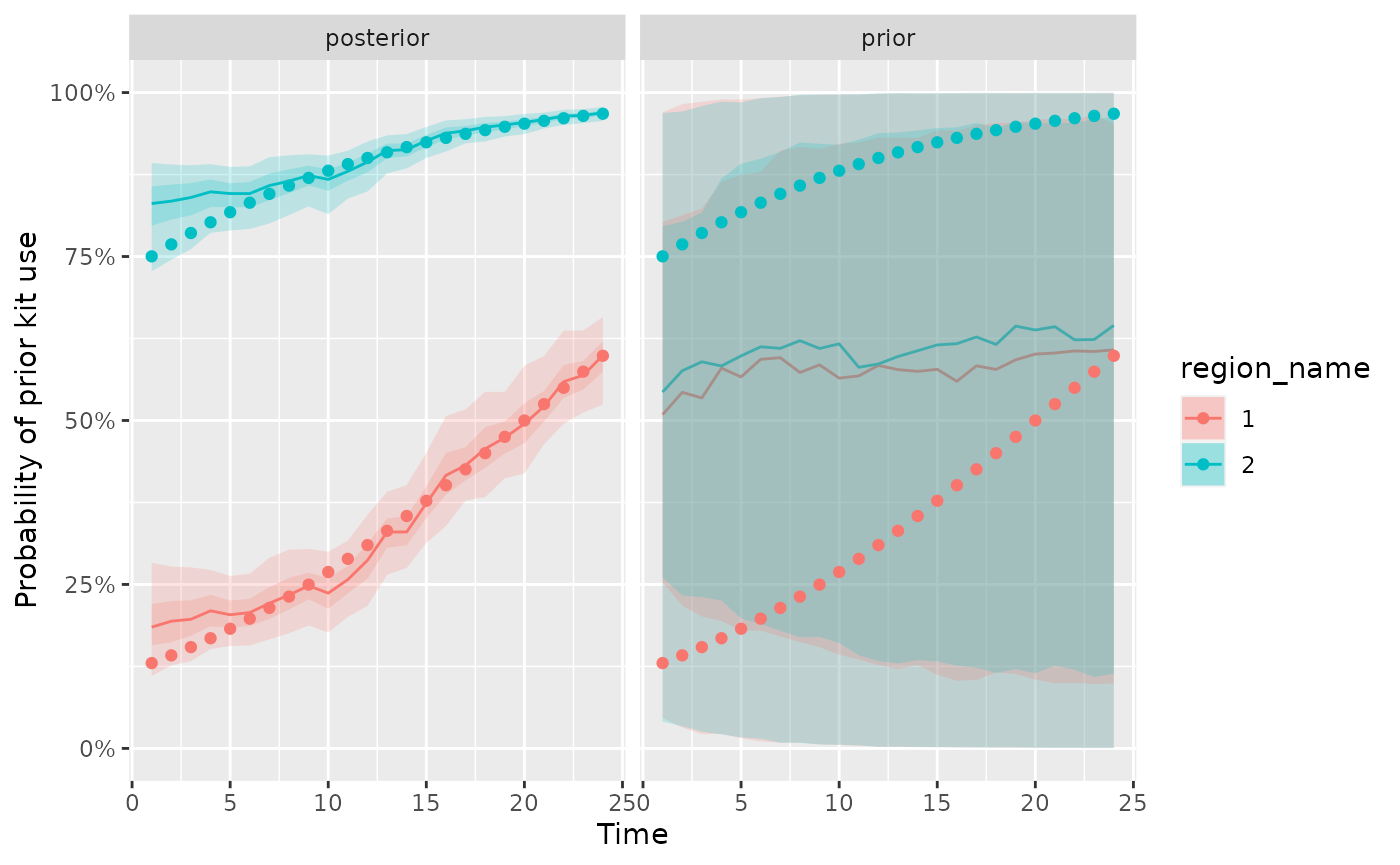
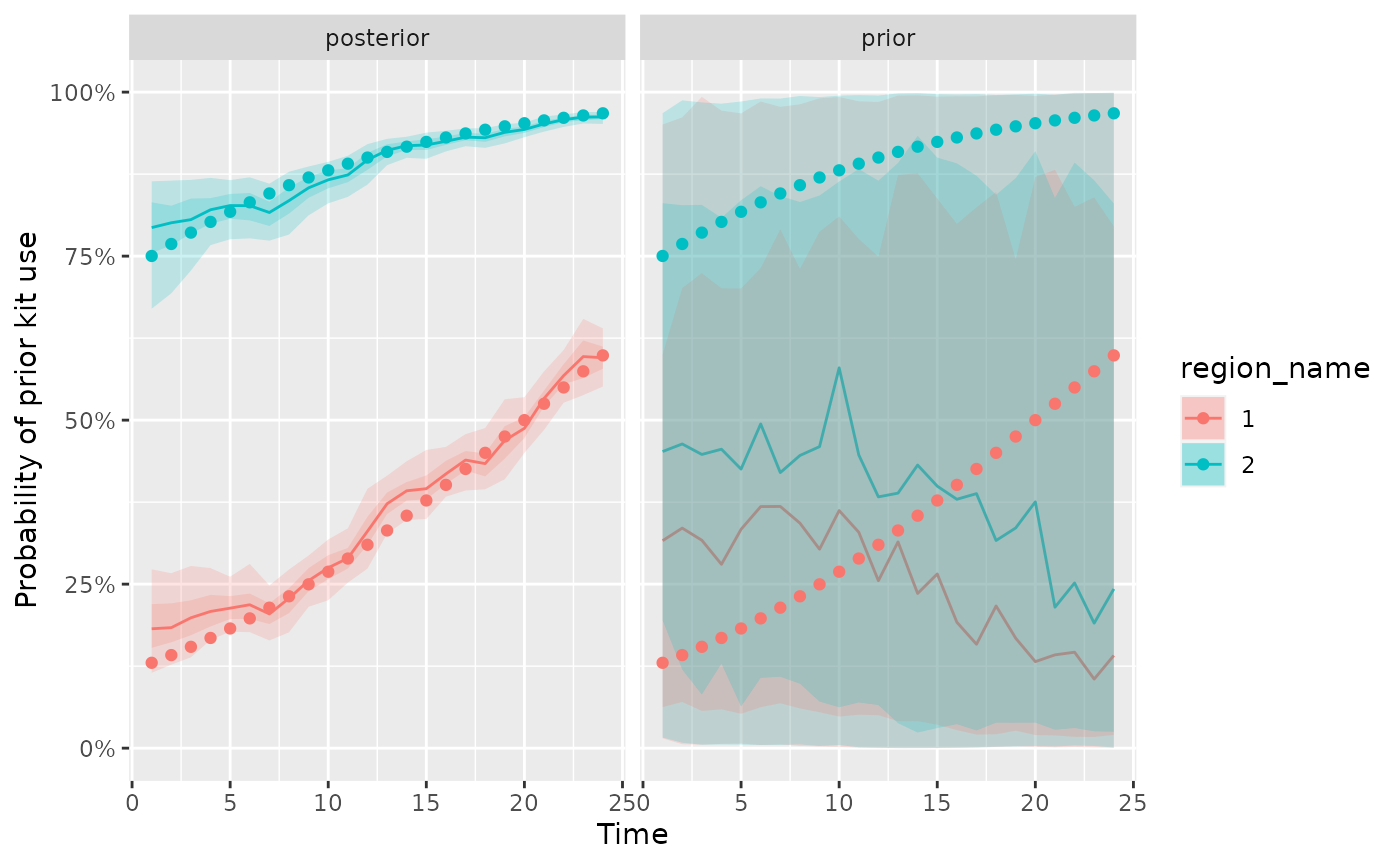
Deploying to gh-pages from @ sempwn/bennu@37bef14d76d6ded74b3891c9ccc3522ef571a1d9 🚀

diff --git a/articles/Introduction.html b/articles/Introduction.html
@@ -114,23 +114,22 @@
 <span><span class="kw"><a href="https://rdrr.io/r/base/library.html" class="external-link">library</a></span><span class="op">(</span><span class="va"><a href="https://ggplot2.tidyverse.org" class="external-link">ggplot2</a></span><span class="op">)</span></span>
 <span></span>
 <span><span class="fu"><a href="https://mc-stan.org/rstan/reference/rstan_options.html" class="external-link">rstan_options</a></span><span class="op">(</span>auto_write <span class="op">=</span> <span class="cn">TRUE</span><span class="op">)</span></span>
-<span><span class="fu"><a href="https://rdrr.io/r/base/options.html" class="external-link">options</a></span><span class="op">(</span>mc.cores <span class="op">=</span> <span class="fu">parallel</span><span class="fu">::</span><span class="fu"><a href="https://rdrr.io/r/parallel/detectCores.html" class="external-link">detectCores</a></span><span class="op">(</span>logical <span class="op">=</span> <span class="cn">FALSE</span><span class="op">)</span><span class="op">)</span></span>
+<span><span class="fu"><a href="https://rdrr.io/r/base/options.html" class="external-link">options</a></span><span class="op">(</span>mc.cores <span class="op">=</span> <span class="fl">2</span><span class="op">)</span></span>
 <span></span>
 <span><span class="co">## basic example code</span></span>
 <span><span class="va">d</span> <span class="op">&lt;-</span> <span class="fu"><a href="../reference/generate_model_data.html">generate_model_data</a></span><span class="op">(</span><span class="op">)</span></span>
 <span><span class="co"># note iter should be at least 2000 to generate a reasonable posterior sample</span></span>
-<span><span class="va">fit</span> <span class="op">&lt;-</span> <span class="fu"><a href="../reference/est_naloxone.html">est_naloxone</a></span><span class="op">(</span><span class="va">d</span>,iter<span class="op">=</span><span class="fl">1000</span><span class="op">)</span></span>
+<span><span class="va">fit</span> <span class="op">&lt;-</span> <span class="fu"><a href="../reference/est_naloxone.html">est_naloxone</a></span><span class="op">(</span><span class="va">d</span>,iter<span class="op">=</span><span class="fl">100</span><span class="op">)</span></span>
 <span><span class="co">#&gt; Warning: Specifying the `id_cols` argument by position was deprecated in tidyr 1.3.0.</span></span>
 <span><span class="co">#&gt; <span style="color: #00BBBB;">ℹ</span> Please explicitly name `id_cols`, like `id_cols = regions`.</span></span>
 <span><span class="co">#&gt; <span style="color: #00BBBB;">ℹ</span> The deprecated feature was likely used in the <span style="color: #0000BB;">bennu</span> package.</span></span>
 <span><span class="co">#&gt;   Please report the issue at <span style="color: #0000BB; font-style: italic;">&lt;https://github.com/sempwn/bennu/issues&gt;</span>.</span></span>
-<span><span class="co">#&gt; Warning: There were 226 divergent transitions after warmup. See</span></span>
+<span><span class="co">#&gt; <span style="color: #555555;">This warning is displayed once every 8 hours.</span></span></span>
+<span><span class="co">#&gt; <span style="color: #555555;">Call `lifecycle::last_lifecycle_warnings()` to see where this warning was</span></span></span>
+<span><span class="co">#&gt; <span style="color: #555555;">generated.</span></span></span>
+<span><span class="co">#&gt; Warning: There were 14 divergent transitions after warmup. See</span></span>
 <span><span class="co">#&gt; https://mc-stan.org/misc/warnings.html#divergent-transitions-after-warmup</span></span>
 <span><span class="co">#&gt; to find out why this is a problem and how to eliminate them.</span></span>
-<span><span class="co">#&gt; Warning: There were 9 transitions after warmup that exceeded the maximum treedepth. Increase max_treedepth above 10. See</span></span>
-<span><span class="co">#&gt; https://mc-stan.org/misc/warnings.html#maximum-treedepth-exceeded</span></span>
-<span><span class="co">#&gt; Warning: There were 3 chains where the estimated Bayesian Fraction of Missing Information was low. See</span></span>
-<span><span class="co">#&gt; https://mc-stan.org/misc/warnings.html#bfmi-low</span></span>
 <span><span class="co">#&gt; Warning: Examine the pairs() plot to diagnose sampling problems</span></span>
 <span><span class="co">#&gt; Warning: The largest R-hat is NA, indicating chains have not mixed.</span></span>
 <span><span class="co">#&gt; Running the chains for more iterations may help. See</span></span>
@@ -147,7 +146,7 @@
 <p>Return median and 90th percentiles for posterior samples</p>
 <div class="sourceCode" id="cb2"><pre class="downlit sourceCode r">
 <code class="sourceCode R"><span><span class="kw"><a href="https://rdrr.io/r/base/library.html" class="external-link">library</a></span><span class="op">(</span><span class="va"><a href="https://mc-stan.org/posterior/" class="external-link">posterior</a></span><span class="op">)</span></span>
-<span><span class="co">#&gt; This is posterior version 1.3.1</span></span>
+<span><span class="co">#&gt; This is posterior version 1.4.1</span></span>
 <span><span class="co">#&gt; </span></span>
 <span><span class="co">#&gt; Attaching package: 'posterior'</span></span>
 <span><span class="co">#&gt; The following object is masked from 'package:bayesplot':</span></span>
@@ -159,31 +158,30 @@
 <span><span class="co">#&gt; The following objects are masked from 'package:stats':</span></span>
 <span><span class="co">#&gt; </span></span>
 <span><span class="co">#&gt;     mad, sd, var</span></span>
+<span><span class="co">#&gt; The following objects are masked from 'package:base':</span></span>
+<span><span class="co">#&gt; </span></span>
+<span><span class="co">#&gt;     %in%, match</span></span>
 <span></span>
 <span><span class="fu"><a href="https://mc-stan.org/posterior/reference/draws_summary.html" class="external-link">summarise_draws</a></span><span class="op">(</span><span class="va">fit</span>, <span class="fu"><a href="https://mc-stan.org/posterior/reference/draws_summary.html" class="external-link">default_summary_measures</a></span><span class="op">(</span><span class="op">)</span><span class="op">)</span></span>
 <span><span class="co">#&gt; <span style="color: #949494;"># A tibble: 462 × 7</span></span></span>
-<span><span class="co">#&gt;    variable  mean median    sd   mad    q5    q95</span></span>
-<span><span class="co">#&gt;    <span style="color: #949494; font-style: italic;">&lt;chr&gt;</span>    <span style="color: #949494; font-style: italic;">&lt;dbl&gt;</span>  <span style="color: #949494; font-style: italic;">&lt;dbl&gt;</span> <span style="color: #949494; font-style: italic;">&lt;dbl&gt;</span> <span style="color: #949494; font-style: italic;">&lt;dbl&gt;</span> <span style="color: #949494; font-style: italic;">&lt;dbl&gt;</span>  <span style="color: #949494; font-style: italic;">&lt;dbl&gt;</span></span></span>
-<span><span class="co">#&gt; <span style="color: #BCBCBC;"> 1</span> logp[1]  -<span style="color: #BB0000;">1.49</span>  -<span style="color: #BB0000;">1.48</span> 0.344 0.306 -<span style="color: #BB0000;">2.08</span> -<span style="color: #BB0000;">0.975</span></span></span>
-<span><span class="co">#&gt; <span style="color: #BCBCBC;"> 2</span> logp[2]  -<span style="color: #BB0000;">1.43</span>  -<span style="color: #BB0000;">1.42</span> 0.293 0.285 -<span style="color: #BB0000;">1.89</span> -<span style="color: #BB0000;">0.954</span></span></span>
-<span><span class="co">#&gt; <span style="color: #BCBCBC;"> 3</span> logp[3]  -<span style="color: #BB0000;">1.42</span>  -<span style="color: #BB0000;">1.42</span> 0.269 0.231 -<span style="color: #BB0000;">1.87</span> -<span style="color: #BB0000;">0.982</span></span></span>
-<span><span class="co">#&gt; <span style="color: #BCBCBC;"> 4</span> logp[4]  -<span style="color: #BB0000;">1.31</span>  -<span style="color: #BB0000;">1.31</span> 0.183 0.180 -<span style="color: #BB0000;">1.61</span> -<span style="color: #BB0000;">0.995</span></span></span>
-<span><span class="co">#&gt; <span style="color: #BCBCBC;"> 5</span> logp[5]  -<span style="color: #BB0000;">1.35</span>  -<span style="color: #BB0000;">1.35</span> 0.156 0.149 -<span style="color: #BB0000;">1.62</span> -<span style="color: #BB0000;">1.10</span> </span></span>
-<span><span class="co">#&gt; <span style="color: #BCBCBC;"> 6</span> logp[6]  -<span style="color: #BB0000;">1.38</span>  -<span style="color: #BB0000;">1.38</span> 0.150 0.150 -<span style="color: #BB0000;">1.63</span> -<span style="color: #BB0000;">1.14</span> </span></span>
-<span><span class="co">#&gt; <span style="color: #BCBCBC;"> 7</span> logp[7]  -<span style="color: #BB0000;">1.25</span>  -<span style="color: #BB0000;">1.25</span> 0.216 0.206 -<span style="color: #BB0000;">1.61</span> -<span style="color: #BB0000;">0.885</span></span></span>
-<span><span class="co">#&gt; <span style="color: #BCBCBC;"> 8</span> logp[8]  -<span style="color: #BB0000;">1.21</span>  -<span style="color: #BB0000;">1.20</span> 0.201 0.185 -<span style="color: #BB0000;">1.55</span> -<span style="color: #BB0000;">0.888</span></span></span>
-<span><span class="co">#&gt; <span style="color: #BCBCBC;"> 9</span> logp[9]  -<span style="color: #BB0000;">1.04</span>  -<span style="color: #BB0000;">1.04</span> 0.104 0.108 -<span style="color: #BB0000;">1.19</span> -<span style="color: #BB0000;">0.867</span></span></span>
-<span><span class="co">#&gt; <span style="color: #BCBCBC;">10</span> logp[10] -<span style="color: #BB0000;">1.18</span>  -<span style="color: #BB0000;">1.17</span> 0.211 0.204 -<span style="color: #BB0000;">1.53</span> -<span style="color: #BB0000;">0.832</span></span></span>
-<span><span class="co">#&gt; <span style="color: #949494;"># … with 452 more rows</span></span></span></code></pre></div>
+<span><span class="co">#&gt;    variable   mean median    sd   mad    q5    q95</span></span>
+<span><span class="co">#&gt;    <span style="color: #949494; font-style: italic;">&lt;chr&gt;</span>     <span style="color: #949494; font-style: italic;">&lt;num&gt;</span>  <span style="color: #949494; font-style: italic;">&lt;num&gt;</span> <span style="color: #949494; font-style: italic;">&lt;num&gt;</span> <span style="color: #949494; font-style: italic;">&lt;num&gt;</span> <span style="color: #949494; font-style: italic;">&lt;num&gt;</span>  <span style="color: #949494; font-style: italic;">&lt;num&gt;</span></span></span>
+<span><span class="co">#&gt; <span style="color: #BCBCBC;"> 1</span> logp[1]  -<span style="color: #BB0000;">1.50</span>  -<span style="color: #BB0000;">1.49</span>  0.316 0.303 -<span style="color: #BB0000;">2.05</span> -<span style="color: #BB0000;">1.01</span> </span></span>
+<span><span class="co">#&gt; <span style="color: #BCBCBC;"> 2</span> logp[2]  -<span style="color: #BB0000;">1.49</span>  -<span style="color: #BB0000;">1.50</span>  0.272 0.252 -<span style="color: #BB0000;">1.94</span> -<span style="color: #BB0000;">1.03</span> </span></span>
+<span><span class="co">#&gt; <span style="color: #BCBCBC;"> 3</span> logp[3]  -<span style="color: #BB0000;">1.41</span>  -<span style="color: #BB0000;">1.42</span>  0.262 0.243 -<span style="color: #BB0000;">1.88</span> -<span style="color: #BB0000;">0.947</span></span></span>
+<span><span class="co">#&gt; <span style="color: #BCBCBC;"> 4</span> logp[4]  -<span style="color: #BB0000;">1.33</span>  -<span style="color: #BB0000;">1.35</span>  0.201 0.206 -<span style="color: #BB0000;">1.63</span> -<span style="color: #BB0000;">1.00</span> </span></span>
+<span><span class="co">#&gt; <span style="color: #BCBCBC;"> 5</span> logp[5]  -<span style="color: #BB0000;">1.30</span>  -<span style="color: #BB0000;">1.31</span>  0.144 0.141 -<span style="color: #BB0000;">1.51</span> -<span style="color: #BB0000;">1.07</span> </span></span>
+<span><span class="co">#&gt; <span style="color: #BCBCBC;"> 6</span> logp[6]  -<span style="color: #BB0000;">1.27</span>  -<span style="color: #BB0000;">1.27</span>  0.172 0.150 -<span style="color: #BB0000;">1.56</span> -<span style="color: #BB0000;">1.01</span> </span></span>
+<span><span class="co">#&gt; <span style="color: #BCBCBC;"> 7</span> logp[7]  -<span style="color: #BB0000;">1.39</span>  -<span style="color: #BB0000;">1.37</span>  0.124 0.110 -<span style="color: #BB0000;">1.59</span> -<span style="color: #BB0000;">1.19</span> </span></span>
+<span><span class="co">#&gt; <span style="color: #BCBCBC;"> 8</span> logp[8]  -<span style="color: #BB0000;">1.24</span>  -<span style="color: #BB0000;">1.23</span>  0.175 0.183 -<span style="color: #BB0000;">1.53</span> -<span style="color: #BB0000;">0.991</span></span></span>
+<span><span class="co">#&gt; <span style="color: #BCBCBC;"> 9</span> logp[9]  -<span style="color: #BB0000;">1.05</span>  -<span style="color: #BB0000;">1.04</span>  0.106 0.105 -<span style="color: #BB0000;">1.24</span> -<span style="color: #BB0000;">0.885</span></span></span>
+<span><span class="co">#&gt; <span style="color: #BCBCBC;">10</span> logp[10] -<span style="color: #BB0000;">0.956</span> -<span style="color: #BB0000;">0.962</span> 0.111 0.100 -<span style="color: #BB0000;">1.16</span> -<span style="color: #BB0000;">0.780</span></span></span>
+<span><span class="co">#&gt; <span style="color: #949494;"># ℹ 452 more rows</span></span></span></code></pre></div>
 <p>We can compare two different model fits of the probability of prior
 kit use to simulated data using the <code>plot_kit_use</code>
 function</p>
 <div class="sourceCode" id="cb3"><pre class="downlit sourceCode r">
-<code class="sourceCode R"><span><span class="fu"><a href="../reference/plot_kit_use.html">plot_kit_use</a></span><span class="op">(</span>model <span class="op">=</span> <span class="va">fit</span>,data<span class="op">=</span><span class="va">d</span><span class="op">)</span></span>
-<span><span class="co">#&gt; Warning: `gather_()` was deprecated in tidyr 1.2.0.</span></span>
-<span><span class="co">#&gt; <span style="color: #00BBBB;">ℹ</span> Please use `gather()` instead.</span></span>
-<span><span class="co">#&gt; <span style="color: #00BBBB;">ℹ</span> The deprecated feature was likely used in the <span style="color: #0000BB;">tidybayes</span> package.</span></span>
-<span><span class="co">#&gt;   Please report the issue at <span style="color: #0000BB; font-style: italic;">&lt;https://github.com/mjskay/tidybayes/issues/new&gt;</span>.</span></span></code></pre></div>
+<code class="sourceCode R"><span><span class="fu"><a href="../reference/plot_kit_use.html">plot_kit_use</a></span><span class="op">(</span>model <span class="op">=</span> <span class="va">fit</span>,data<span class="op">=</span><span class="va">d</span><span class="op">)</span></span></code></pre></div>
 <p><img src="Introduction_files/figure-html/plot%20draws-1.png" width="700"></p>
 <p>We can compare the posterior predictive check to the prior predictive
 check by re-running the model without the likelihood by setting the
@@ -192,13 +190,13 @@ check by re-running the model without the likelihood by setting the
 <code class="sourceCode R"><span><span class="co"># note iter should be at least 2000 to generate a reasonable posterior sample</span></span>
 <span><span class="va">prior_fit</span> <span class="op">&lt;-</span> <span class="fu"><a href="../reference/est_naloxone.html">est_naloxone</a></span><span class="op">(</span><span class="va">d</span>,</span>
 <span>                          run_estimation <span class="op">=</span> <span class="cn">FALSE</span>,</span>
-<span>                          iter<span class="op">=</span><span class="fl">1000</span><span class="op">)</span></span>
-<span><span class="co">#&gt; Warning: There were 31 divergent transitions after warmup. See</span></span>
+<span>                          iter<span class="op">=</span><span class="fl">100</span><span class="op">)</span></span>
+<span><span class="co">#&gt; Warning: There were 10 divergent transitions after warmup. See</span></span>
 <span><span class="co">#&gt; https://mc-stan.org/misc/warnings.html#divergent-transitions-after-warmup</span></span>
 <span><span class="co">#&gt; to find out why this is a problem and how to eliminate them.</span></span>
-<span><span class="co">#&gt; Warning: There were 230 transitions after warmup that exceeded the maximum treedepth. Increase max_treedepth above 10. See</span></span>
+<span><span class="co">#&gt; Warning: There were 6 transitions after warmup that exceeded the maximum treedepth. Increase max_treedepth above 10. See</span></span>
 <span><span class="co">#&gt; https://mc-stan.org/misc/warnings.html#maximum-treedepth-exceeded</span></span>
-<span><span class="co">#&gt; Warning: There were 4 chains where the estimated Bayesian Fraction of Missing Information was low. See</span></span>
+<span><span class="co">#&gt; Warning: There were 2 chains where the estimated Bayesian Fraction of Missing Information was low. See</span></span>
 <span><span class="co">#&gt; https://mc-stan.org/misc/warnings.html#bfmi-low</span></span>
 <span><span class="co">#&gt; Warning: Examine the pairs() plot to diagnose sampling problems</span></span>
 <span><span class="co">#&gt; Warning: The largest R-hat is NA, indicating chains have not mixed.</span></span>
@@ -239,13 +237,13 @@ probability of naloxone use in time.</p>
 <span><span class="co"># note use `rw_type` to specify order of random walk</span></span>
 <span><span class="va">rw2_fit</span> <span class="op">&lt;-</span> <span class="fu"><a href="../reference/est_naloxone.html">est_naloxone</a></span><span class="op">(</span><span class="va">d</span>,</span>
 <span>                    rw_type <span class="op">=</span> <span class="fl">2</span>,</span>
-<span>                    iter<span class="op">=</span><span class="fl">1000</span><span class="op">)</span></span>
-<span><span class="co">#&gt; Warning: There were 45 divergent transitions after warmup. See</span></span>
+<span>                    iter<span class="op">=</span><span class="fl">100</span><span class="op">)</span></span>
+<span><span class="co">#&gt; Warning: There were 61 divergent transitions after warmup. See</span></span>
 <span><span class="co">#&gt; https://mc-stan.org/misc/warnings.html#divergent-transitions-after-warmup</span></span>
 <span><span class="co">#&gt; to find out why this is a problem and how to eliminate them.</span></span>
-<span><span class="co">#&gt; Warning: There were 1269 transitions after warmup that exceeded the maximum treedepth. Increase max_treedepth above 10. See</span></span>
+<span><span class="co">#&gt; Warning: There were 3 transitions after warmup that exceeded the maximum treedepth. Increase max_treedepth above 10. See</span></span>
 <span><span class="co">#&gt; https://mc-stan.org/misc/warnings.html#maximum-treedepth-exceeded</span></span>
-<span><span class="co">#&gt; Warning: There were 4 chains where the estimated Bayesian Fraction of Missing Information was low. See</span></span>
+<span><span class="co">#&gt; Warning: There were 1 chains where the estimated Bayesian Fraction of Missing Information was low. See</span></span>
 <span><span class="co">#&gt; https://mc-stan.org/misc/warnings.html#bfmi-low</span></span>
 <span><span class="co">#&gt; Warning: Examine the pairs() plot to diagnose sampling problems</span></span>
 <span><span class="co">#&gt; Warning: The largest R-hat is NA, indicating chains have not mixed.</span></span>
@@ -265,18 +263,18 @@ probability of naloxone use in time.</p>
 <code class="sourceCode R"><span><span class="fu"><a href="https://mc-stan.org/posterior/reference/draws_summary.html" class="external-link">summarise_draws</a></span><span class="op">(</span><span class="va">rw2_fit</span>, <span class="fu"><a href="https://mc-stan.org/posterior/reference/draws_summary.html" class="external-link">default_convergence_measures</a></span><span class="op">(</span><span class="op">)</span><span class="op">)</span></span>
 <span><span class="co">#&gt; <span style="color: #949494;"># A tibble: 462 × 4</span></span></span>
 <span><span class="co">#&gt;    variable  rhat ess_bulk ess_tail</span></span>
-<span><span class="co">#&gt;    <span style="color: #949494; font-style: italic;">&lt;chr&gt;</span>    <span style="color: #949494; font-style: italic;">&lt;dbl&gt;</span>    <span style="color: #949494; font-style: italic;">&lt;dbl&gt;</span>    <span style="color: #949494; font-style: italic;">&lt;dbl&gt;</span></span></span>
-<span><span class="co">#&gt; <span style="color: #BCBCBC;"> 1</span> logp[1]   1.02     224.     429.</span></span>
-<span><span class="co">#&gt; <span style="color: #BCBCBC;"> 2</span> logp[2]   1.02     214.     568.</span></span>
-<span><span class="co">#&gt; <span style="color: #BCBCBC;"> 3</span> logp[3]   1.02     250.     547.</span></span>
-<span><span class="co">#&gt; <span style="color: #BCBCBC;"> 4</span> logp[4]   1.02     237.     537.</span></span>
-<span><span class="co">#&gt; <span style="color: #BCBCBC;"> 5</span> logp[5]   1.02     314.     604.</span></span>
-<span><span class="co">#&gt; <span style="color: #BCBCBC;"> 6</span> logp[6]   1.01     401.     661.</span></span>
-<span><span class="co">#&gt; <span style="color: #BCBCBC;"> 7</span> logp[7]   1.03     579.     744.</span></span>
-<span><span class="co">#&gt; <span style="color: #BCBCBC;"> 8</span> logp[8]   1.02     729.     709.</span></span>
-<span><span class="co">#&gt; <span style="color: #BCBCBC;"> 9</span> logp[9]   1.02     488.     770.</span></span>
-<span><span class="co">#&gt; <span style="color: #BCBCBC;">10</span> logp[10]  1.03     750.     710.</span></span>
-<span><span class="co">#&gt; <span style="color: #949494;"># … with 452 more rows</span></span></span></code></pre></div>
+<span><span class="co">#&gt;    <span style="color: #949494; font-style: italic;">&lt;chr&gt;</span>    <span style="color: #949494; font-style: italic;">&lt;num&gt;</span>    <span style="color: #949494; font-style: italic;">&lt;num&gt;</span>    <span style="color: #949494; font-style: italic;">&lt;num&gt;</span></span></span>
+<span><span class="co">#&gt; <span style="color: #BCBCBC;"> 1</span> logp[1]   1.42    10.4      37.6</span></span>
+<span><span class="co">#&gt; <span style="color: #BCBCBC;"> 2</span> logp[2]   1.65     8.23     21.0</span></span>
+<span><span class="co">#&gt; <span style="color: #BCBCBC;"> 3</span> logp[3]   1.76     7.55     20.4</span></span>
+<span><span class="co">#&gt; <span style="color: #BCBCBC;"> 4</span> logp[4]   1.54     8.73     32.8</span></span>
+<span><span class="co">#&gt; <span style="color: #BCBCBC;"> 5</span> logp[5]   1.43     9.97     83.7</span></span>
+<span><span class="co">#&gt; <span style="color: #BCBCBC;"> 6</span> logp[6]   1.37    10.9      65.0</span></span>
+<span><span class="co">#&gt; <span style="color: #BCBCBC;"> 7</span> logp[7]   1.23    16.6      83.8</span></span>
+<span><span class="co">#&gt; <span style="color: #BCBCBC;"> 8</span> logp[8]   1.16    22.5      75.7</span></span>
+<span><span class="co">#&gt; <span style="color: #BCBCBC;"> 9</span> logp[9]   1.28    13.2     131. </span></span>
+<span><span class="co">#&gt; <span style="color: #BCBCBC;">10</span> logp[10]  1.38    10.9      20.4</span></span>
+<span><span class="co">#&gt; <span style="color: #949494;"># ℹ 452 more rows</span></span></span></code></pre></div>
 <p>We can compare two different model fits of the probability of prior
 kit use to simulated data using the <code>plot_kit_use</code>
 function</p>
@@ -303,13 +301,11 @@ months</p>
 <div class="sourceCode" id="cb10"><pre class="downlit sourceCode r">
 <code class="sourceCode R"><span><span class="va">missing_fit</span> <span class="op">&lt;-</span> <span class="fu"><a href="../reference/est_naloxone.html">est_naloxone</a></span><span class="op">(</span><span class="va">d_missing</span>,</span>
 <span>                    rw_type <span class="op">=</span> <span class="fl">2</span>,</span>
-<span>                    iter<span class="op">=</span><span class="fl">1000</span><span class="op">)</span></span>
-<span><span class="co">#&gt; Warning: There were 106 divergent transitions after warmup. See</span></span>
+<span>                    iter<span class="op">=</span><span class="fl">100</span><span class="op">)</span></span>
+<span><span class="co">#&gt; Warning: There were 13 divergent transitions after warmup. See</span></span>
 <span><span class="co">#&gt; https://mc-stan.org/misc/warnings.html#divergent-transitions-after-warmup</span></span>
 <span><span class="co">#&gt; to find out why this is a problem and how to eliminate them.</span></span>
-<span><span class="co">#&gt; Warning: There were 937 transitions after warmup that exceeded the maximum treedepth. Increase max_treedepth above 10. See</span></span>
-<span><span class="co">#&gt; https://mc-stan.org/misc/warnings.html#maximum-treedepth-exceeded</span></span>
-<span><span class="co">#&gt; Warning: There were 4 chains where the estimated Bayesian Fraction of Missing Information was low. See</span></span>
+<span><span class="co">#&gt; Warning: There were 2 chains where the estimated Bayesian Fraction of Missing Information was low. See</span></span>
 <span><span class="co">#&gt; https://mc-stan.org/misc/warnings.html#bfmi-low</span></span>
 <span><span class="co">#&gt; Warning: Examine the pairs() plot to diagnose sampling problems</span></span>
 <span><span class="co">#&gt; Warning: The largest R-hat is NA, indicating chains have not mixed.</span></span>

diff --git a/index.html b/index.html
@@ -5,7 +5,7 @@
 <meta charset="utf-8">
 <meta http-equiv="X-UA-Compatible" content="IE=edge">
 <meta name="viewport" content="width=device-width, initial-scale=1.0">
-<title>Bayesian Estimation of Naloxone kit Number Under-reporting. • bennu</title>
+<title>Bayesian Estimation of Naloxone Kit Number Under-Reporting • bennu</title>
 <!-- favicons --><link rel="icon" type="image/png" sizes="16x16" href="favicon-16x16.png">
 <link rel="icon" type="image/png" sizes="32x32" href="favicon-32x32.png">
 <link rel="apple-touch-icon" type="image/png" sizes="180x180" href="apple-touch-icon.png">
@@ -17,11 +17,11 @@
 <script src="bootstrap-toc.js"></script><!-- Font Awesome icons --><link rel="stylesheet" href="https://cdnjs.cloudflare.com/ajax/libs/font-awesome/5.12.1/css/all.min.css" integrity="sha256-mmgLkCYLUQbXn0B1SRqzHar6dCnv9oZFPEC1g1cwlkk=" crossorigin="anonymous">
 <link rel="stylesheet" href="https://cdnjs.cloudflare.com/ajax/libs/font-awesome/5.12.1/css/v4-shims.min.css" integrity="sha256-wZjR52fzng1pJHwx4aV2AO3yyTOXrcDW7jBpJtTwVxw=" crossorigin="anonymous">
 <!-- clipboard.js --><script src="https://cdnjs.cloudflare.com/ajax/libs/clipboard.js/2.0.6/clipboard.min.js" integrity="sha256-inc5kl9MA1hkeYUt+EC3BhlIgyp/2jDIyBLS6k3UxPI=" crossorigin="anonymous"></script><!-- headroom.js --><script src="https://cdnjs.cloudflare.com/ajax/libs/headroom/0.11.0/headroom.min.js" integrity="sha256-AsUX4SJE1+yuDu5+mAVzJbuYNPHj/WroHuZ8Ir/CkE0=" crossorigin="anonymous"></script><script src="https://cdnjs.cloudflare.com/ajax/libs/headroom/0.11.0/jQuery.headroom.min.js" integrity="sha256-ZX/yNShbjqsohH1k95liqY9Gd8uOiE1S4vZc+9KQ1K4=" crossorigin="anonymous"></script><!-- pkgdown --><link href="pkgdown.css" rel="stylesheet">
-<script src="pkgdown.js"></script><meta property="og:title" content="Bayesian Estimation of Naloxone kit Number Under-reporting.">
+<script src="pkgdown.js"></script><meta property="og:title" content="Bayesian Estimation of Naloxone Kit Number Under-Reporting">
 <meta property="og:description" content="Bayesian model and associated tools for generating estimates of 
     total naloxone kit numbers distributed and used from naloxone kit orders 
     data. Provides functions for generating simulated data of naloxone kit use
-    and functions for generating samples from the posterior.">
+    and functions for generating samples from the posterior">
 <meta property="og:image" content="https://sempwn.github.io/bennu/logo.png">
 <!-- mathjax --><script src="https://cdnjs.cloudflare.com/ajax/libs/mathjax/2.7.5/MathJax.js" integrity="sha256-nvJJv9wWKEm88qvoQl9ekL2J+k/RWIsaSScxxlsrv8k=" crossorigin="anonymous"></script><script src="https://cdnjs.cloudflare.com/ajax/libs/mathjax/2.7.5/config/TeX-AMS-MML_HTMLorMML.js" integrity="sha256-84DKXVJXs0/F8OTMzX4UR909+jtl4G7SPypPavF+GfA=" crossorigin="anonymous"></script><!--[if lt IE 9]>
 <script src="https://oss.maxcdn.com/html5shiv/3.7.3/html5shiv.min.js"></script>
@@ -175,7 +175,7 @@
 <div class="developers">
 <h2 data-toc-skip>Developers</h2>
 <ul class="list-unstyled">
-<li>Mike Irvine <br><small class="roles"> Author, maintainer </small> <a href="https://orcid.org/0000-0003-4785-8998" target="orcid.widget" aria-label="ORCID" class="external-link"><span class="fab fa-orcid orcid" aria-hidden="true"></span></a> </li>
+<li>Mike Irvine <br><small class="roles"> Author, maintainer, copyright holder </small> <a href="https://orcid.org/0000-0003-4785-8998" target="orcid.widget" aria-label="ORCID" class="external-link"><span class="fab fa-orcid orcid" aria-hidden="true"></span></a> </li>
 <li><a href="authors.html">More about authors...</a></li>
 </ul>
 </div>

diff --git a/reference/est_naloxone.html b/reference/est_naloxone.html
@@ -187,8 +187,8 @@ for each chain (including warmup). The default is 2000.</p></dd>
 <span class="r-out co"><span class="r-pr">#&gt;</span> </span>
 <span class="r-out co"><span class="r-pr">#&gt;</span> SAMPLING FOR MODEL 'distribution_covariate_model' NOW (CHAIN 1).</span>
 <span class="r-out co"><span class="r-pr">#&gt;</span> Chain 1: </span>
-<span class="r-out co"><span class="r-pr">#&gt;</span> Chain 1: Gradient evaluation took 4.7e-05 seconds</span>
-<span class="r-out co"><span class="r-pr">#&gt;</span> Chain 1: 1000 transitions using 10 leapfrog steps per transition would take 0.47 seconds.</span>
+<span class="r-out co"><span class="r-pr">#&gt;</span> Chain 1: Gradient evaluation took 3e-05 seconds</span>
+<span class="r-out co"><span class="r-pr">#&gt;</span> Chain 1: 1000 transitions using 10 leapfrog steps per transition would take 0.3 seconds.</span>
 <span class="r-out co"><span class="r-pr">#&gt;</span> Chain 1: Adjust your expectations accordingly!</span>
 <span class="r-out co"><span class="r-pr">#&gt;</span> Chain 1: </span>
 <span class="r-out co"><span class="r-pr">#&gt;</span> Chain 1: </span>
@@ -213,11 +213,11 @@ for each chain (including warmup). The default is 2000.</p></dd>
 <span class="r-out co"><span class="r-pr">#&gt;</span> Chain 1: Iteration: 90 / 100 [ 90%]  (Sampling)</span>
 <span class="r-out co"><span class="r-pr">#&gt;</span> Chain 1: Iteration: 100 / 100 [100%]  (Sampling)</span>
 <span class="r-out co"><span class="r-pr">#&gt;</span> Chain 1: </span>
-<span class="r-out co"><span class="r-pr">#&gt;</span> Chain 1:  Elapsed Time: 0.091101 seconds (Warm-up)</span>
-<span class="r-out co"><span class="r-pr">#&gt;</span> Chain 1:                0.102787 seconds (Sampling)</span>
-<span class="r-out co"><span class="r-pr">#&gt;</span> Chain 1:                0.193888 seconds (Total)</span>
+<span class="r-out co"><span class="r-pr">#&gt;</span> Chain 1:  Elapsed Time: 0.125 seconds (Warm-up)</span>
+<span class="r-out co"><span class="r-pr">#&gt;</span> Chain 1:                0.131 seconds (Sampling)</span>
+<span class="r-out co"><span class="r-pr">#&gt;</span> Chain 1:                0.256 seconds (Total)</span>
 <span class="r-out co"><span class="r-pr">#&gt;</span> Chain 1: </span>
-<span class="r-wrn co"><span class="r-pr">#&gt;</span> <span class="warning">Warning: </span>There were 2 divergent transitions after warmup. See</span>
+<span class="r-wrn co"><span class="r-pr">#&gt;</span> <span class="warning">Warning: </span>There were 4 divergent transitions after warmup. See</span>
 <span class="r-wrn co"><span class="r-pr">#&gt;</span> https://mc-stan.org/misc/warnings.html#divergent-transitions-after-warmup</span>
 <span class="r-wrn co"><span class="r-pr">#&gt;</span> to find out why this is a problem and how to eliminate them.</span>
 <span class="r-wrn co"><span class="r-pr">#&gt;</span> <span class="warning">Warning: </span>Examine the pairs() plot to diagnose sampling problems</span>

diff --git a/authors.html b/authors.html
@@ -59,7 +59,7 @@
 
       
       <ul class="list-unstyled"><li>
-          <p><strong>Mike Irvine</strong>. Author, maintainer. <a href="https://orcid.org/0000-0003-4785-8998" target="orcid.widget" aria-label="ORCID" class="external-link"><span class="fab fa-orcid orcid" aria-hidden="true"></span></a>
+          <p><strong>Mike Irvine</strong>. Author, maintainer, copyright holder. <a href="https://orcid.org/0000-0003-4785-8998" target="orcid.widget" aria-label="ORCID" class="external-link"><span class="fab fa-orcid orcid" aria-hidden="true"></span></a>
           </p>
         </li>
         <li>
@@ -76,11 +76,11 @@
 
 
     <p>Irvine M (2023).
-<em>bennu: Bayesian Estimation of Naloxone kit Number Under-reporting.</em>.
+<em>bennu: Bayesian Estimation of Naloxone Kit Number Under-Reporting</em>.
 R package version 0.1.0, <a href="https://sempwn.github.io/bennu/">https://sempwn.github.io/bennu/</a>. 
 </p>
     <pre>@Manual{,
-  title = {bennu: Bayesian Estimation of Naloxone kit Number Under-reporting.},
+  title = {bennu: Bayesian Estimation of Naloxone Kit Number Under-Reporting},
   author = {Mike Irvine},
   year = {2023},
   note = {R package version 0.1.0},
